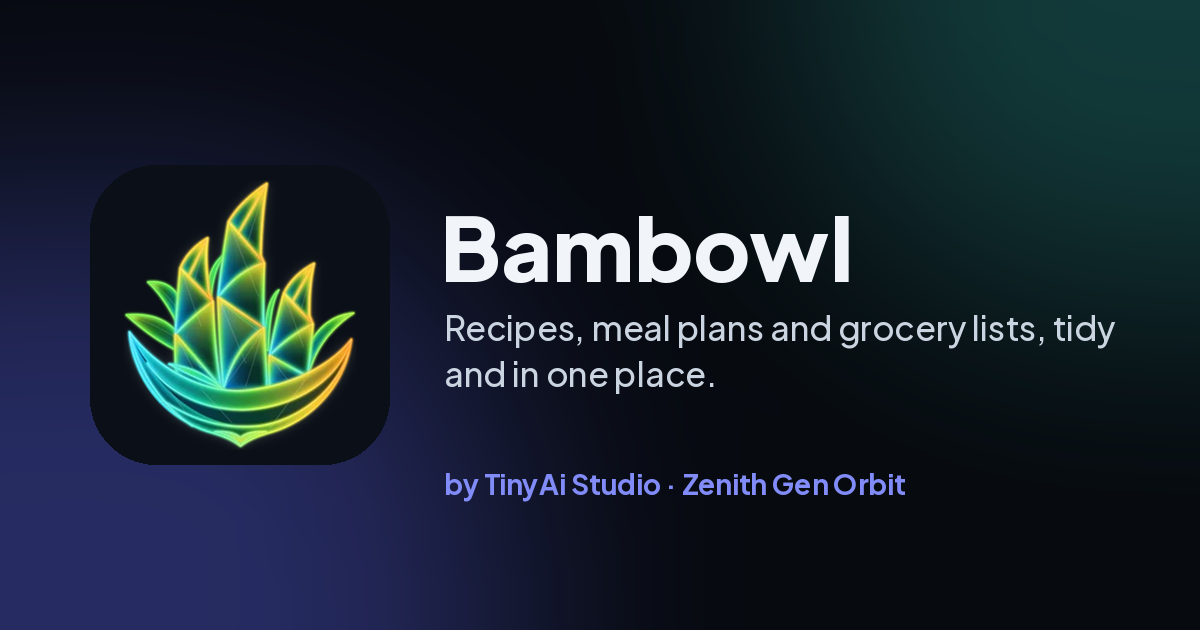
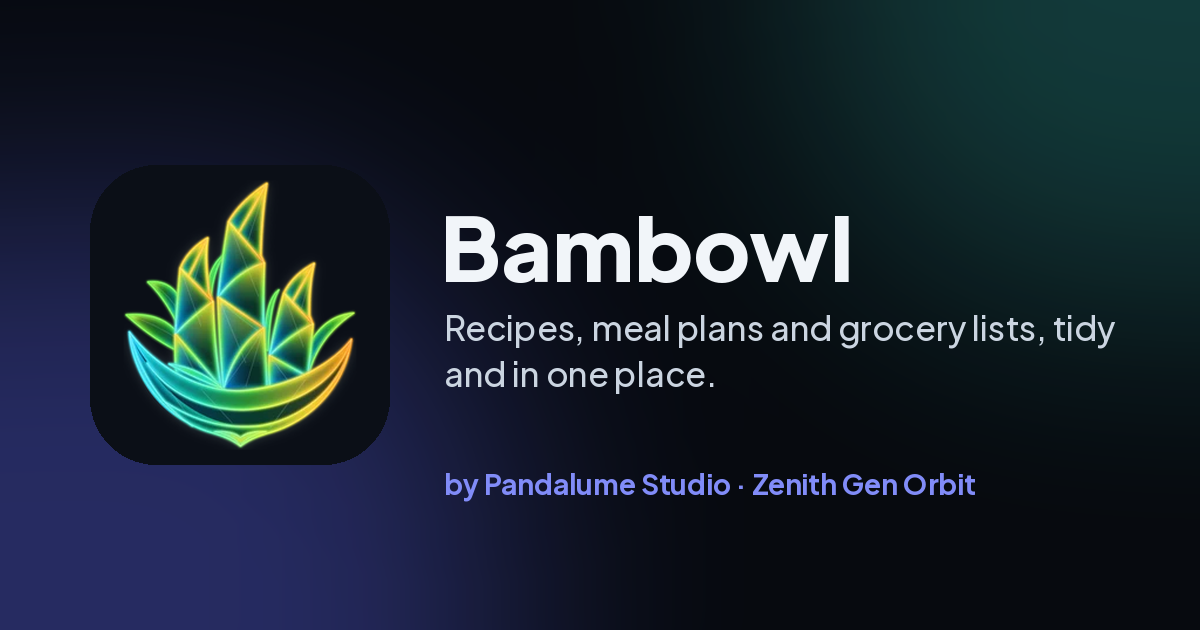
Rename studio to Pandalume Studio

Changed region(s): [[0.4008, 0.754, 0.8325, 0.7841]]

diff --git a/content/terms/shared.html b/content/terms/shared.html
@@ -11,7 +11,7 @@
 <h2>No warranty</h2>
 <p>The apps are made by one person and provided “as is”, without any promise that they will be error-free, always available, or suit your purpose. Features may change or be removed.</p>
 <h2>Limits of responsibility</h2>
-<p>To the extent permitted by law, TinyAi Studio is not responsible for any loss of data, profits or other indirect loss arising from using or being unable to use the apps. Nothing in these terms limits any rights you have as a consumer that cannot be limited by law.</p>
+<p>To the extent permitted by law, Pandalume Studio is not responsible for any loss of data, profits or other indirect loss arising from using or being unable to use the apps. Nothing in these terms limits any rights you have as a consumer that cannot be limited by law.</p>
 <h2>Changes and ending</h2>
 <p>We may update these terms; the new version will be posted here with a new date, and continuing to use an app means you accept it. You can stop using an app at any time by uninstalling it and, if you signed in, asking us to delete your data (see the privacy policy).</p>
 <h2>Law</h2>

diff --git a/DESIGN.md b/DESIGN.md
@@ -7,12 +7,12 @@ Status: proposal, 22 Oct 2026. The build plan is at the bottom.
 | Level | Name | Shown where |
 |---|---|---|
 | Storefront (this site) | **Zenith Gen Orbit** | Site header and footer, "Published on Zenith Gen Orbit" |
-| Developer studio | **TinyAi Studio** | The main credit: "by TinyAi Studio", the privacy policy, "© TinyAi Studio" in apps |
+| Developer studio | **Pandalume Studio** | The main credit: "by Pandalume Studio", the privacy policy, "© Pandalume Studio" in apps |
 | Products | Bambowl, Quillix Note, Cypher Vault, … | App pages |
 | Legal | Jon personally, until a business is registered | Only where the law or a platform requires it (Android verification, code signing) |
 | Accounts | tinyaiprojects@gmail.com owns GitHub/Supabase/Google Cloud. Keep it private, and use support@<domain> publicly once there is a domain. | n/a |
 
-New package IDs use the studio: `com.tinyaistudio.<app>` (or the bought domain, reversed). Existing `com.jon.*` IDs never change.
+New package IDs use the studio: `com.pandalume.<app>` (or the bought domain, reversed). Existing `com.jon.*` IDs never change.
 
 ## In one paragraph
 

diff --git a/README.md b/README.md
@@ -1,6 +1,6 @@
 # Zenith Gen Orbit
 
-The storefront for the apps and games made by **TinyAi Studio**. It has a page for each app with downloads, every older version,
+The storefront for the apps and games made by **Pandalume Studio**. It has a page for each app with downloads, every older version,
 install help, privacy policies, and the small "latest version" files the apps check for updates.
 
 Live at **https://tinypanda-collab.github.io**, a free GitHub Pages site built from this repo.
